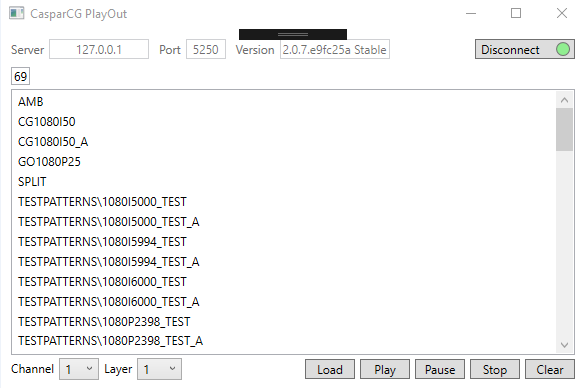
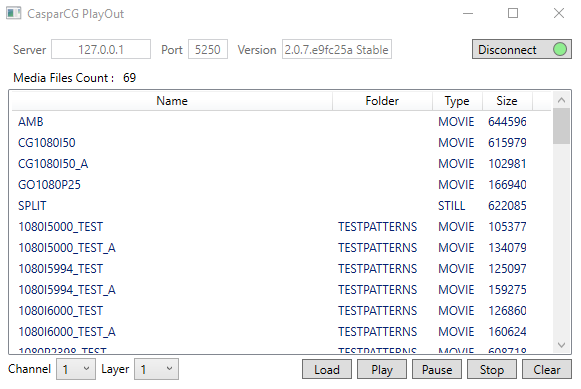
Ok

diff --git a/CasparCGPlayOut/MainWindow.xaml b/CasparCGPlayOut/MainWindow.xaml
@@ -7,7 +7,7 @@
         mc:Ignorable="d"
         Title="CasparCG PlayOut" Height="400" Width="600" Loaded="Window_Loaded" WindowStartupLocation="CenterScreen">
     <Grid Margin="10">
-        <Grid x:Name="gr_connect" VerticalAlignment="Top">
+        <Grid x:Name="gr_connect" VerticalAlignment="Top" Margin="5,0,0,0">
             <StackPanel x:Name="sp_connect" Orientation="Horizontal" Margin="0,0,105,0">
                 <Label Content="Server" VerticalContentAlignment="Center" Padding="0" Margin="0,0,5,0"/>
                 <TextBox x:Name="txb_server" TextWrapping="Wrap" Text="127.0.0.1" HorizontalContentAlignment="Center" VerticalContentAlignment="Center" Width="100"/>
@@ -21,8 +21,22 @@
         </Grid>
         <Grid x:Name="gr_control" Margin="0,25,0,0" IsEnabled="False">
             <Grid Margin="0,0,0,25">
-                <TextBox x:Name="txb_videoCount" TextWrapping="Wrap" HorizontalContentAlignment="Center" VerticalContentAlignment="Center" HorizontalAlignment="Left" VerticalAlignment="Top" Margin="0,3,0,0"/>
-                <ListBox x:Name="lbx_video" Margin="0,25,0,0"/>
+                <Grid VerticalAlignment="Top" Height="24">
+                    <Label Content="Media Files Count :" HorizontalAlignment="Left"/>
+                    <Label x:Name="lb_videoCount" Content="" HorizontalAlignment="Left" Margin="110,0,0,0"/>
+                </Grid>
+                <ListView x:Name="lv_video" Margin="0,25,0,0">
+                    <ListView.View>
+                        <GridView>
+                            <GridViewColumn Header="Name" Width="320" DisplayMemberBinding="{Binding Name}" />
+                            <GridViewColumn Header="Folder" Width="100" DisplayMemberBinding="{Binding Folder}" />
+                            <GridViewColumn Header="Type" Width="50" DisplayMemberBinding="{Binding Type}" />
+                            <GridViewColumn Header="Size" Width="50" DisplayMemberBinding="{Binding Size}" />
+                            <!--<GridViewColumn Header="Duration" Width="60" DisplayMemberBinding="{Binding Duration, StringFormat=hh\\:mm\\:ss}" />-->
+                            <!--<GridViewColumn Header="Fps" Width="80" DisplayMemberBinding="{Binding Fps}" />-->
+                        </GridView>
+                    </ListView.View>
+                </ListView>
             </Grid>
             <Grid VerticalAlignment="Bottom">
                 <StackPanel Orientation="Horizontal" HorizontalAlignment="Right">

diff --git a/CasparCGPlayOut/MainWindow.xaml.cs b/CasparCGPlayOut/MainWindow.xaml.cs
@@ -23,7 +23,6 @@ namespace CasparPlayOut
     /// </summary>
     public partial class MainWindow : Window
     {
-
         CasparDevice cd = new CasparDevice();
         //CasparItem ci = new CasparItem(string.Empty);
         //Channel ch;
@@ -139,14 +138,16 @@ namespace CasparPlayOut
                 while (cd.Channels.Count <= 0);
 
                 // cd media read.
-                txb_videoCount.Text = cd.Mediafiles.Count.ToString();
+                lb_videoCount.Content = cd.Mediafiles.Count.ToString();
 
                 Thread.Sleep(100);
                 System.Windows.Forms.Application.DoEvents();
 
-                lbx_video.ItemsSource = cd.Mediafiles;
-                //lbx_video.ItemsSource = MyList;
-                //lbx_video.Items.Add(MyList.ToArray());
+                lv_video.ItemsSource = cd.Mediafiles;
+                //lv_video.ItemsSource = MyList;
+                //lv_video.Items.Add(MyList.ToArray());
+
+                //MessageBox.Show(cd.Mediafiles[66].Size.ToString());
 
             }
             catch (Exception ex)
@@ -160,8 +161,8 @@ namespace CasparPlayOut
             {
                 txb_version.Text = "";
                 cmb_channel.Items.Clear();
-                txb_videoCount.Text = "";
-                lbx_video.ItemsSource = null;
+                lb_videoCount.Content = "";
+                lv_video.ItemsSource = null;
             }
             catch (Exception ex)
             {
@@ -177,8 +178,8 @@ namespace CasparPlayOut
                 playState = bt.Content.ToString().ToLower().Trim();
                 channel = cmb_channel.SelectedItem.ToString();
                 layer = cmb_layer.Text;
-                if (lbx_video.SelectedIndex != -1)
-                    media = lbx_video.SelectedItem.ToString();
+                if (lv_video.SelectedIndex != -1)
+                    media = lv_video.SelectedItem.ToString();
                 else
                     media = "";
                 loop = "";
@@ -216,6 +217,7 @@ namespace CasparPlayOut
                 else if (playState == "stop")
                 {
                     cd_send_string(playState, channel, layer, media, loop);
+                    //cd.Channels[Convert.ToInt32(channel)].Stop(Convert.ToInt32(layer));
                 }
                 else if (playState == "clear")
                 {
